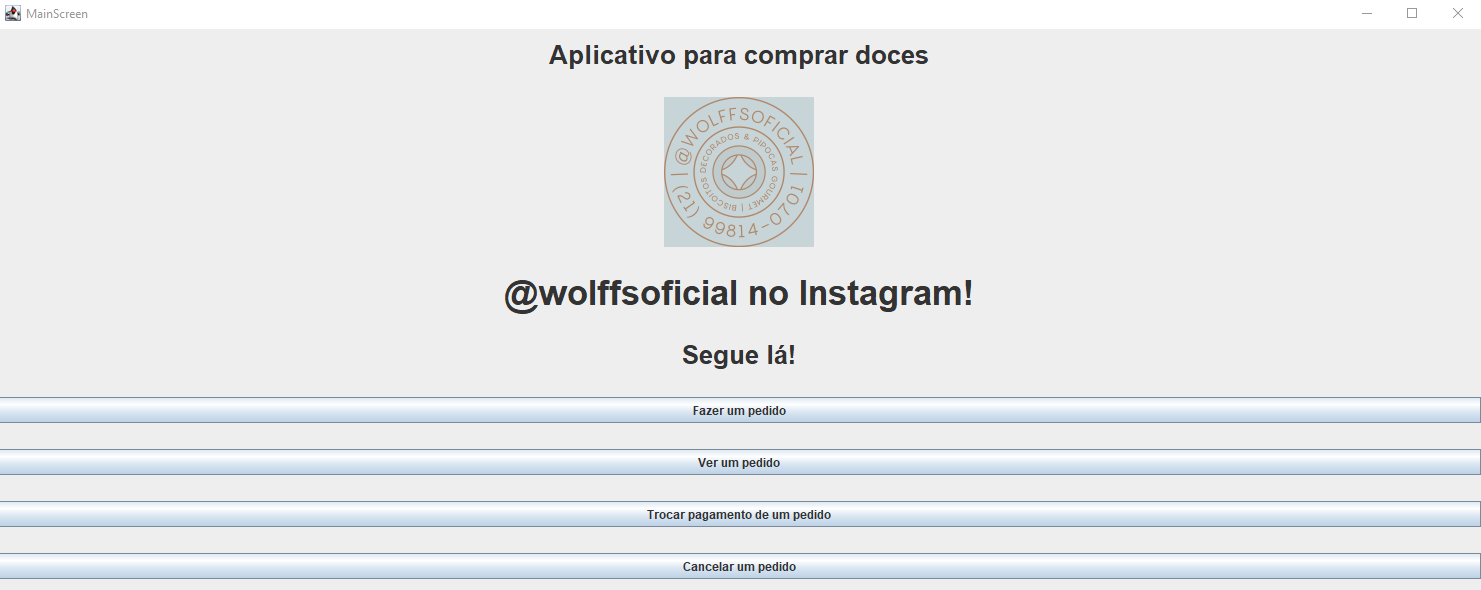
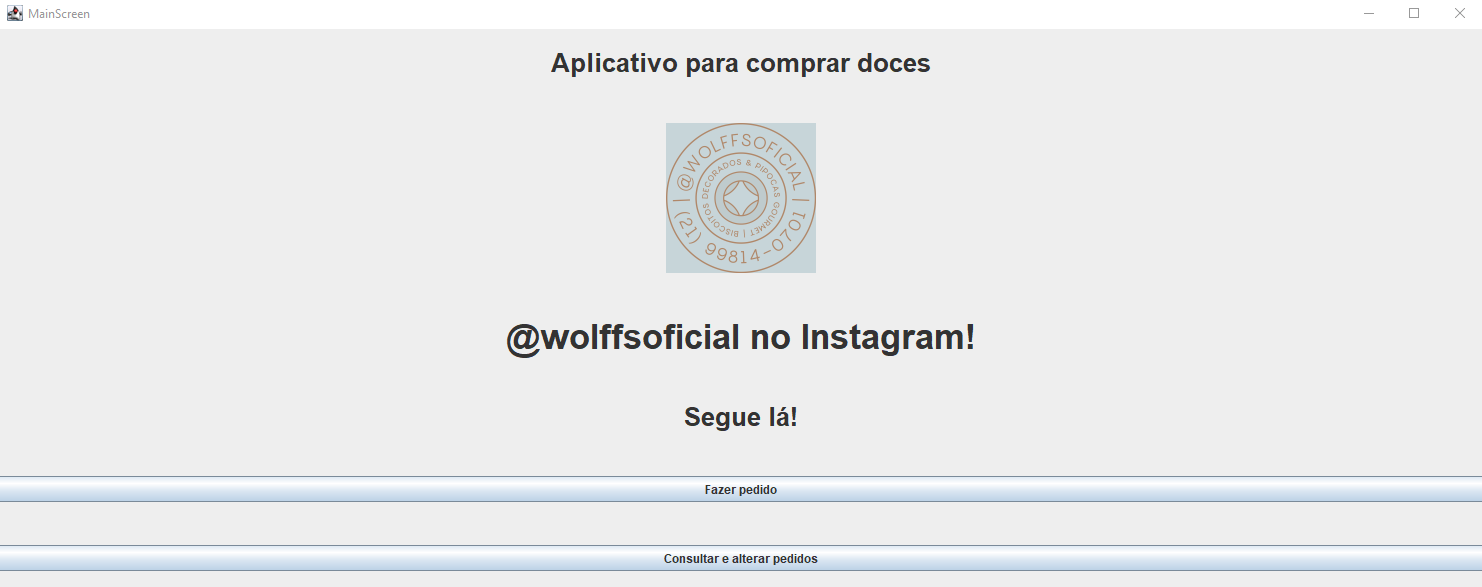
updated readme, and tweak in main screen

diff --git a/src/main/java/com/example/SistemaDeVendas/front/CRUD/MainScreen.java b/src/main/java/com/example/SistemaDeVendas/front/CRUD/MainScreen.java
@@ -20,8 +20,6 @@ public class MainScreen {
     private JPanel mainScreen;
     private JButton fazerUmPedidoButton;
     private JButton verUmPedidoButton;
-    private JButton trocarPagamentoButton;
-    private JButton cancelarPedidoButton;
     private JLabel labelLogoWolffsOficial;
     private JLabel primeiroTexto;
     private JLabel instagramLabel;

diff --git a/README.md b/README.md
@@ -7,12 +7,14 @@ CREATE → Na aba de **Fazer um Pedido** um cliente pode criar um pedido na tela
 produtos seus itens serão em carrinho e então numa tela de pedido 
 o cliente pode finalizar seu pedido.
 
-READ → Na aba de **Consultar Pedidos**, um cliente pode ver todos os pedidos presentes
+READ → Na aba de **Consultar ou alterar Pedidos**, um cliente pode ver todos os pedidos presentes
 e buscar um pedido através de um ID, do pedido.
 
-[//]: # (<br><span style="color:#fe315d">U</span>)
+UPDATE → Na aba de **Consultar ou alterar Pedidos**, um cliente pode escolher um ID e trocar o 
+meio de pagamento de um Pedido.
 
-[//]: # (<br><span style="color:#fe315d">D</span>)
+DELETE → Na aba de **Consultar ou alterar Pedidos**, um cliente pode escolher cancelar um pedido, 
+passando o ID do Pedido.
 
 # Tecnologias
 - Java 17.
@@ -98,15 +100,13 @@ A fim de gerenciar as vendas da loja virtual Biscoitos e Pipocas Wolff's os segu
 
 # Interface
 ### Tela inicial
-![MainScreen](https://github.com/Fflow021/SistemaDeVendas/blob/b76fd6064e57353fd152047b440e746d07808949/assets/assetsFotosDaTela/MainScreen.png)
+![MainScreen]()
 ### Tela de compras
 ![AppScreen](https://github.com/Fflow021/SistemaDeVendas/blob/b76fd6064e57353fd152047b440e746d07808949/assets/assetsFotosDaTela/AppScreen.png)
 ### Tela para finalizar o pedido
 ![TelaDeCarrinho](https://github.com/Fflow021/SistemaDeVendas/blob/b76fd6064e57353fd152047b440e746d07808949/assets/assetsFotosDaTela/TelaDoCarrinho.png)
-
-[//]: # (Tela de Consulta de Pedidos)
-
-[//]: # (![TelaDeConsulta]&#40;&#41;)
+# Tela de Consulta, Deleção e Alteração de Pedidos
+![TelaDeConsulta]
 # Troubleshooting
 
 Caso o programa não esteja funcionando por conta do lombok, certifique-se de 
